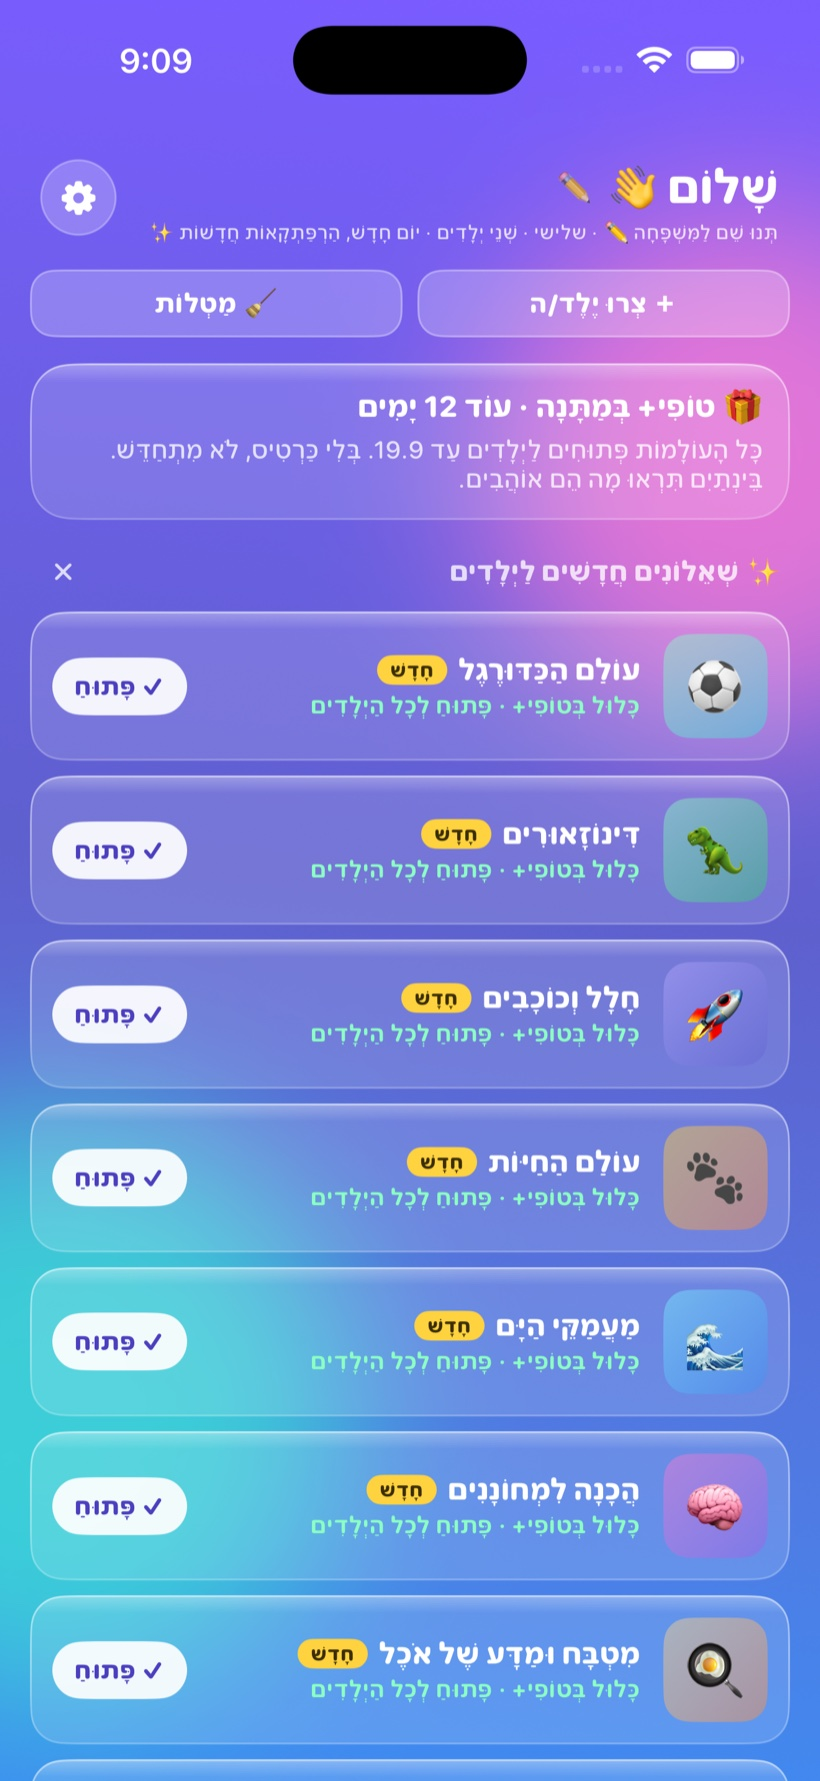
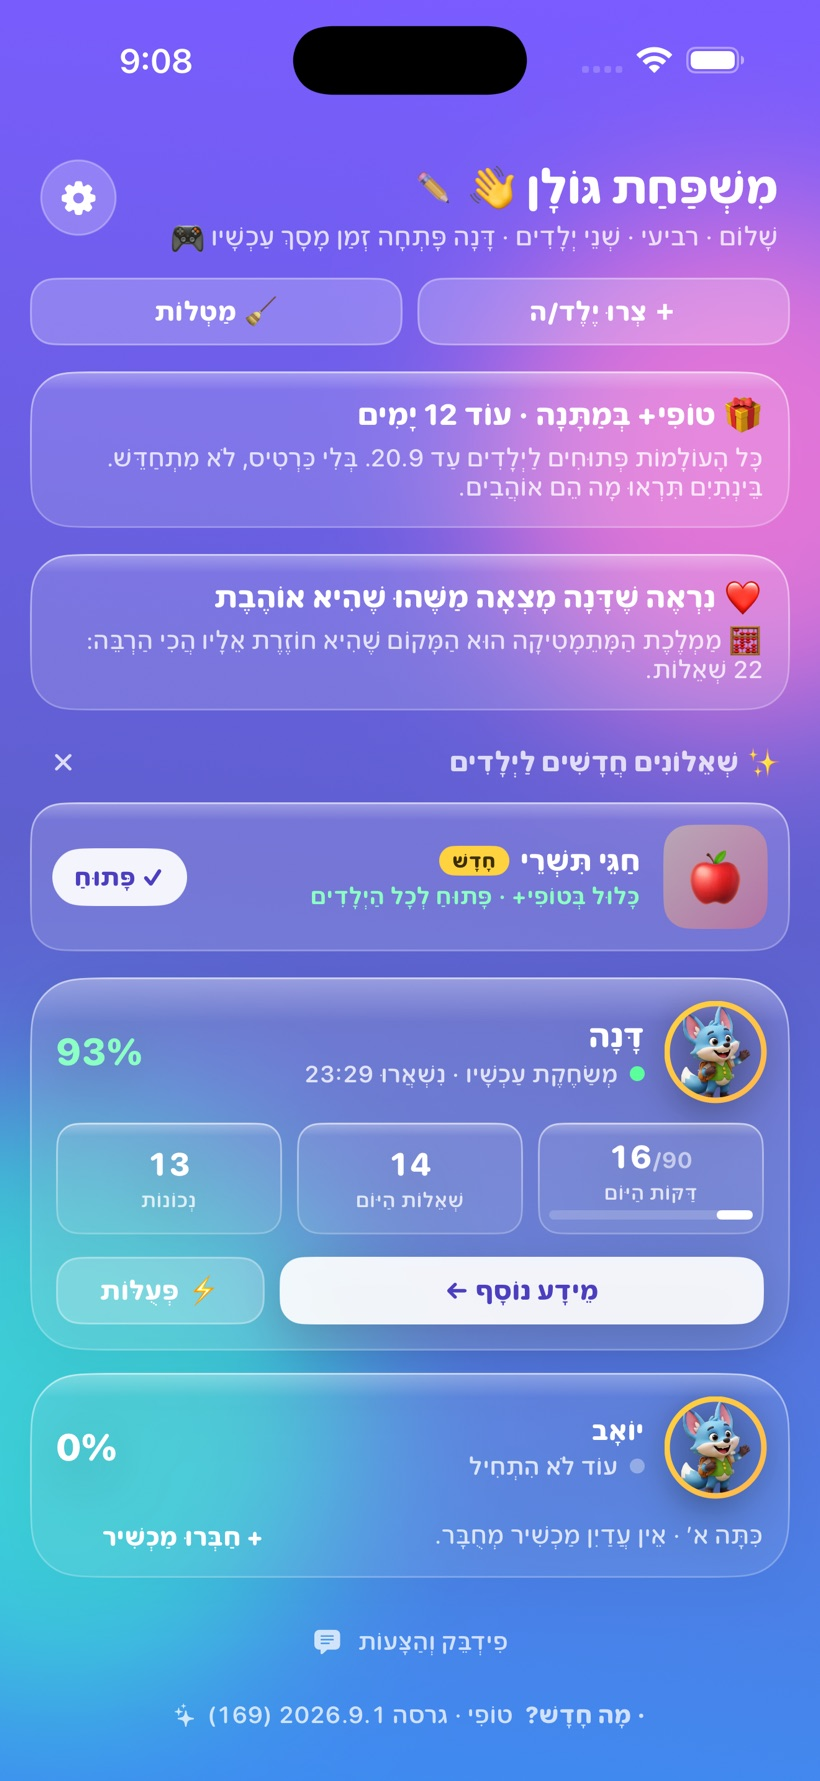
👨👩👧 לוח המשפחה פותח את צד ההורה באתר
- הצילום החדש: שם משפחה בכותרת, שאלון חדש אחד (חגי תשרי) ומיד הילדים
- DEMO_PACKS מצמצם את מדף השאלונים בצילומים; seedDemoJourney מקבל שם משפחה
- לוח המשפחה עבר לראש הרצועה של צד ההורה, עם תיאור חדש
- משפט הסיום באתר נכתב מחדש

diff --git a/docs/index.html b/docs/index.html
@@ -266,14 +266,14 @@
 
   <div class="side reveal">
     <h3>👨👩👧 צד ההורה</h3>
-    <p class="side-sub">לוח בקרה נעול בקוד: כמה זמן מותר, אילו אפליקציות נחסמות, אילו עולמות פתוחים לכל ילד — ואישור מטלות בלחיצה.</p>
+    <p class="side-sub">נכנסים ורואים את כל הילדים במסך אחד: מי משחק עכשיו, כמה נשאר לו והאם הוא התקדם היום. ומשם, נעול בקוד — כמה זמן מותר, אילו אפליקציות נחסמות, אילו עולמות פתוחים לכל ילד ואישור מטלות בלחיצה.</p>
     <div class="rail">
+      <figure><button class="shot" type="button"><img src="shots/giftearly.jpg" alt="לוח המשפחה — כל הילדים במסך אחד" loading="lazy"></button><figcaption>👨👩👧 לוח המשפחה</figcaption></figure>
       <figure><button class="shot" type="button"><img src="shots/devicecontrols.jpg" alt="בקרת המכשיר" loading="lazy"></button><figcaption>🔒 בקרת המכשיר</figcaption></figure>
       <figure><button class="shot" type="button"><img src="shots/childscreentime.jpg" alt="הגבלת זמן מסך יומית" loading="lazy"></button><figcaption>⏱ תקרה יומית</figcaption></figure>
       <figure><button class="shot" type="button"><img src="shots/childworlds.jpg" alt="עולמות פעילים לכל ילד" loading="lazy"></button><figcaption>🌍 עולם לכל ילד</figcaption></figure>
       <figure><button class="shot" type="button"><img src="shots/choresparent.jpg" alt="אישור מטלות" loading="lazy"></button><figcaption>✅ אישור מטלות</figcaption></figure>
       <figure><button class="shot" type="button"><img src="shots/childdifficulty.jpg" alt="רמת קושי לכל נושא" loading="lazy"></button><figcaption>🎯 רמה לכל נושא</figcaption></figure>
-      <figure><button class="shot" type="button"><img src="shots/giftearly.jpg" alt="לוח הבקרה של ההורה" loading="lazy"></button><figcaption>👨👩👧 לוח המשפחה</figcaption></figure>
     </div>
   </div>
 </div></section>
@@ -455,8 +455,8 @@
 <!-- ===================== FINAL ===================== -->
 <section id="download"><div class="wrap final reveal">
   <img src="lion.png" alt="טופי" width="96" height="96">
-  <h2>טופי הופך את "תכבה את המסך"<br>ל"בוא נלמד עוד קצת"</h2>
-  <p>אפליקציה אחת, ושני צדדים מרוצים.</p>
+  <h2>במקום לריב על המסך —<br>הילדים מרוויחים אותו</h2>
+  <p>אתם קובעים את הכללים, וטופי דואג שהם יקרו.</p>
   <a class="appstore" href="#early" style="margin:0 auto" data-store>
     <svg viewBox="0 0 384 512" aria-hidden="true"><path fill="currentColor" d="M318.7 268.7c-.2-36.7 16.4-64.4 50-84.8-18.8-26.9-47.2-41.7-84.7-44.6-35.5-2.8-74.3 20.7-88.5 20.7-15 0-49.4-19.7-76.4-19.7C63.3 141.2 4 184.8 4 273.5q0 39.3 14.4 81.2c12.8 36.7 59 126.7 107.2 125.2 25.2-.6 43-17.9 75.8-17.9 31.8 0 48.3 17.9 76.4 17.9 48.6-.7 90.4-82.5 102.6-119.3-65.2-30.7-61.7-90-61.7-91.9zM262.1 104.5c27.3-32.4 24.8-61.9 24-72.5-24.1 1.4-52 16.4-67.9 34.9-17.5 19.8-27.8 44.3-25.6 71.9 26.1 2 49.9-11.4 69.5-34.3z"/></svg>
     <span class="tx"><small data-store-small>בקרוב ב־</small><b>App&nbsp;Store</b></span>

diff --git a/ChildTime/ChildTimeApp.swift b/ChildTime/ChildTimeApp.swift
@@ -454,7 +454,15 @@ struct ChildTimeApp: App {
         case "activation": ParentDashboardView(isRoot: true)   // free, one active day from the gift
             .onAppear { HouseholdManager.shared.seedDemoJourney(activation: (days: 2, questions: 64)) }
         case "giftearly": ParentDashboardView(isRoot: true)    // gift, 11 days left
-            .onAppear { HouseholdManager.shared.seedDemoJourney(daysLeft: 11) }
+            .onAppear {
+                HouseholdManager.shared.seedDemoJourney(daysLeft: 11, familyName: "מִשְׁפַּחַת גּוֹלָן")
+                // A family board worth showing: both kids with a device and a
+                // month of history, one of them mid-window.
+                for (i, p) in ProfileStore.shared.profiles.enumerated() {
+                    LearningHistoryStore.shared.seedDemo(childID: p.id)
+                    if i == 0 { HouseholdManager.shared.seedDemoLiveWindow(childID: p.id) }
+                }
+            }
         case "giftlate": ParentDashboardView(isRoot: true)     // gift ending in 3 days → personal card
             .onAppear { HouseholdManager.shared.seedDemoJourney(daysLeft: 3) }
         case "giftended": ParentDashboardView(isRoot: true)    // gift over, child asked for a world

diff --git a/ChildTime/Models/HouseholdManager.swift b/ChildTime/Models/HouseholdManager.swift
@@ -108,9 +108,11 @@ final class HouseholdManager: ObservableObject {
     /// parent home / paywall render that state for screenshots and review.
     /// `daysLeft` > 0 = a gift with that many days left; 0 = the gift ended;
     /// `activation` = still free, this far toward the gift.
-    func seedDemoJourney(daysLeft: Int? = nil, activation: (days: Int, questions: Int)? = nil) {
+    func seedDemoJourney(daysLeft: Int? = nil, activation: (days: Int, questions: Int)? = nil,
+                         familyName: String? = nil) {
         var hh = household ?? Household(parentUIDs: ["demo"], createdBy: "demo")
         let now = Date()
+        if let familyName { hh.familyName = familyName }
         if let daysLeft {
             if daysLeft > 0 {
                 let until = now.addingTimeInterval(Double(daysLeft) * 86_400 + 3_600)

diff --git a/ChildTime/Paywall/PackStore.swift b/ChildTime/Paywall/PackStore.swift
@@ -59,6 +59,12 @@ final class PackStore: ObservableObject {
     /// Packs the parent can see and buy right now, in catalog order.
     var visiblePacks: [QuestionPack] {
         #if DEBUG
+        // DEMO_PACKS=tishrei,soccer — a screenshot run pins the shelf to exactly
+        // these packs, so the family board isn't buried under the full catalog.
+        if let only = ProcessInfo.processInfo.environment["DEMO_PACKS"] {
+            let ids = Set(only.split(separator: ",").map { String($0).trimmingCharacters(in: .whitespaces) })
+            return QuestionPacks.all.filter { ids.contains($0.id) }
+        }
         return QuestionPacks.all
         #else
         return QuestionPacks.all.filter { liveIDs.contains($0.id) }
